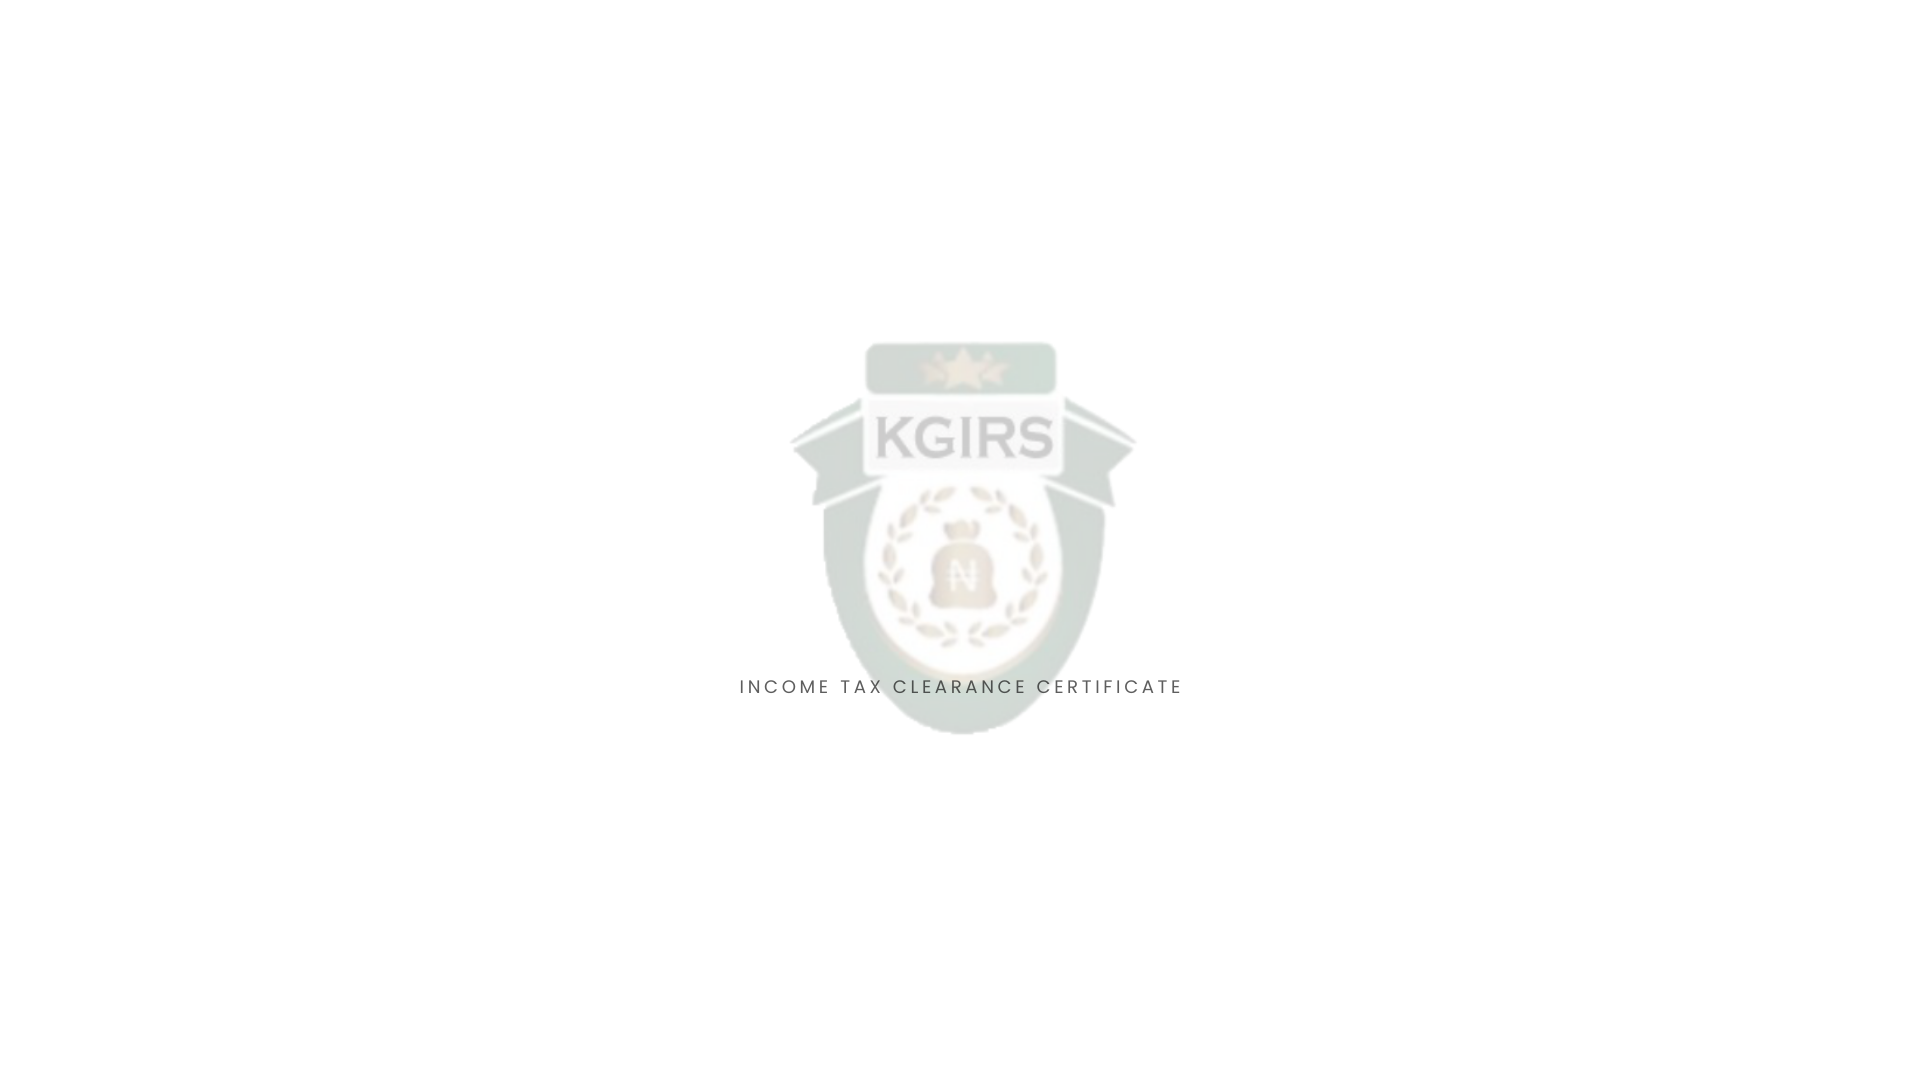
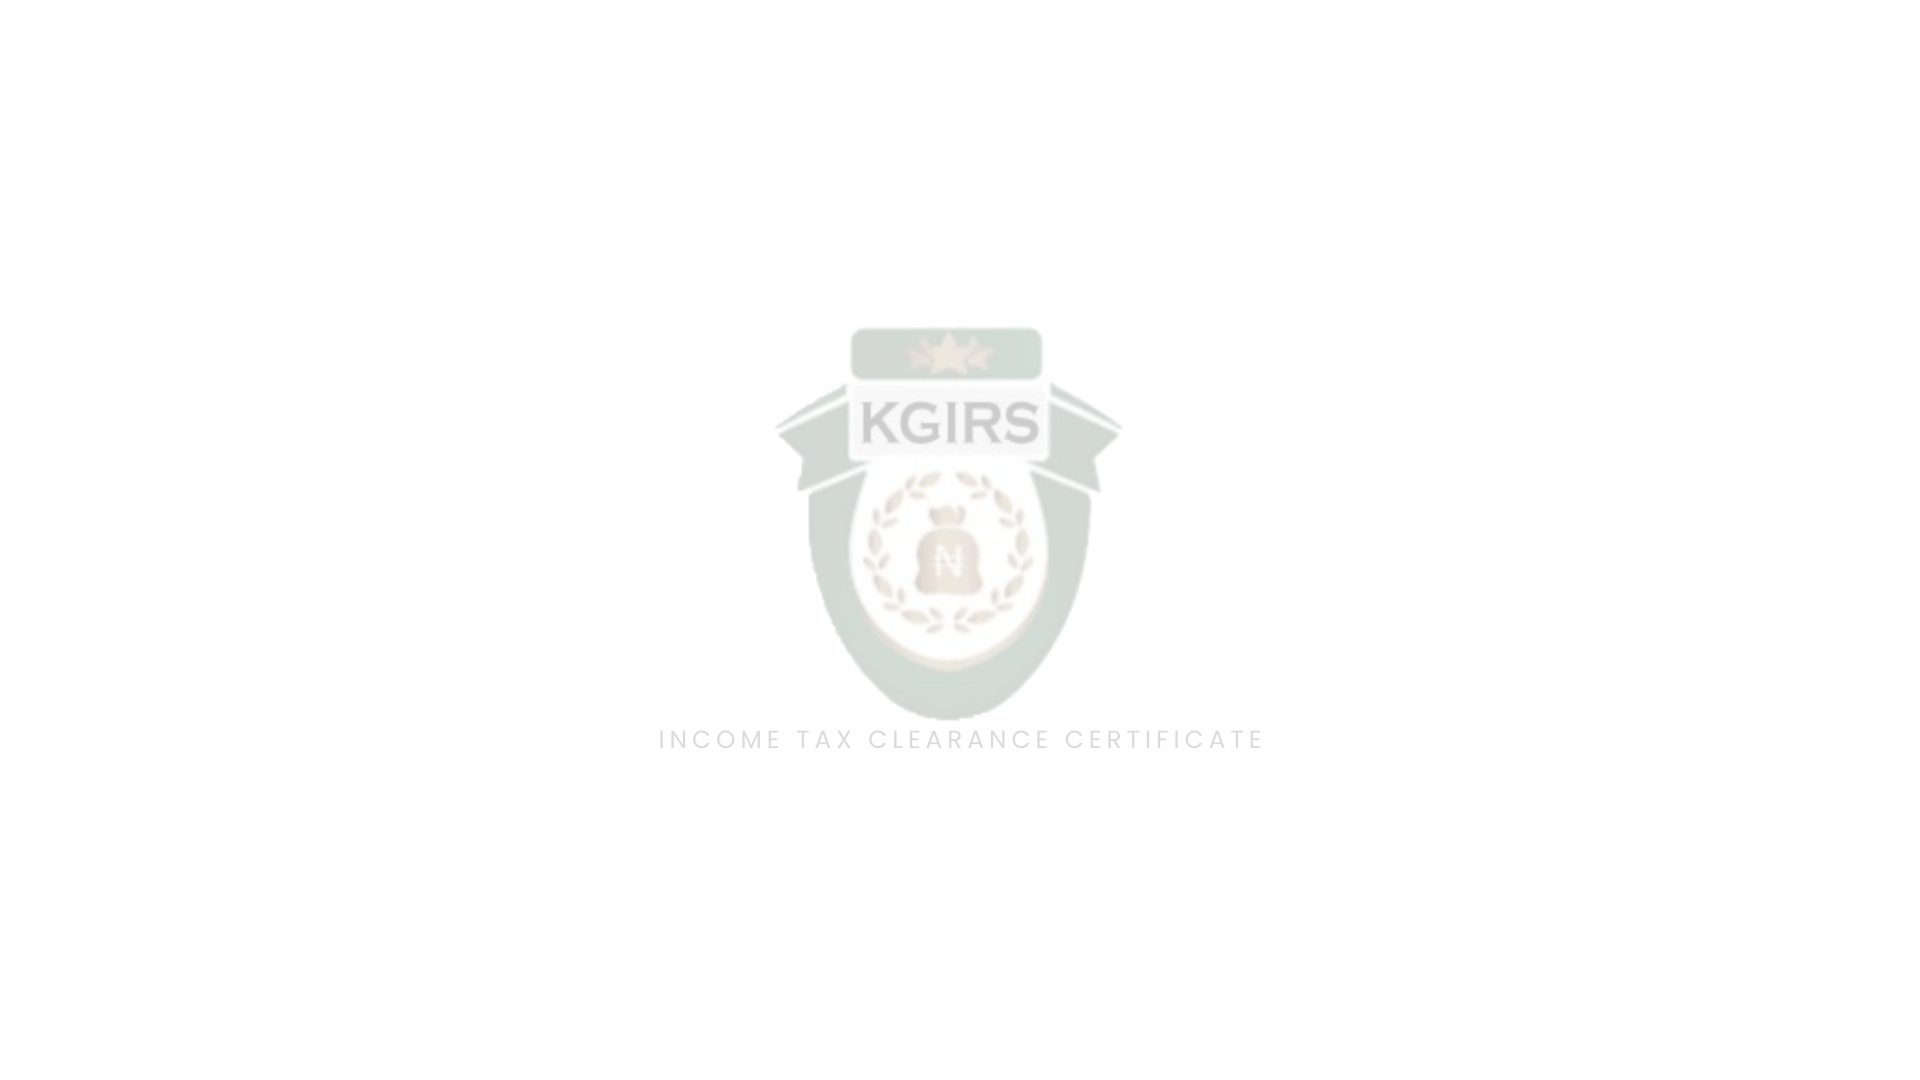
changed TCC background

diff --git a/src/components/tables/viewTccTablePrint.js b/src/components/tables/viewTccTablePrint.js
@@ -290,7 +290,7 @@ export const ViewSingleTccPrintTable = ({
 
       <section ref={componentRef} className="border p-2">
         <div>
-          <div className="flex justify-around bg-no-repeat bg-center" style={{ backgroundImage: `url(/images/I.png)` }}>
+          <div className="flex justify-around bg-no-repeat bg-center" style={{ backgroundImage: `url(/images/background.png)` }}>
             <div>
               <div className="flex mb-8">
                 <KgirsLogo />
